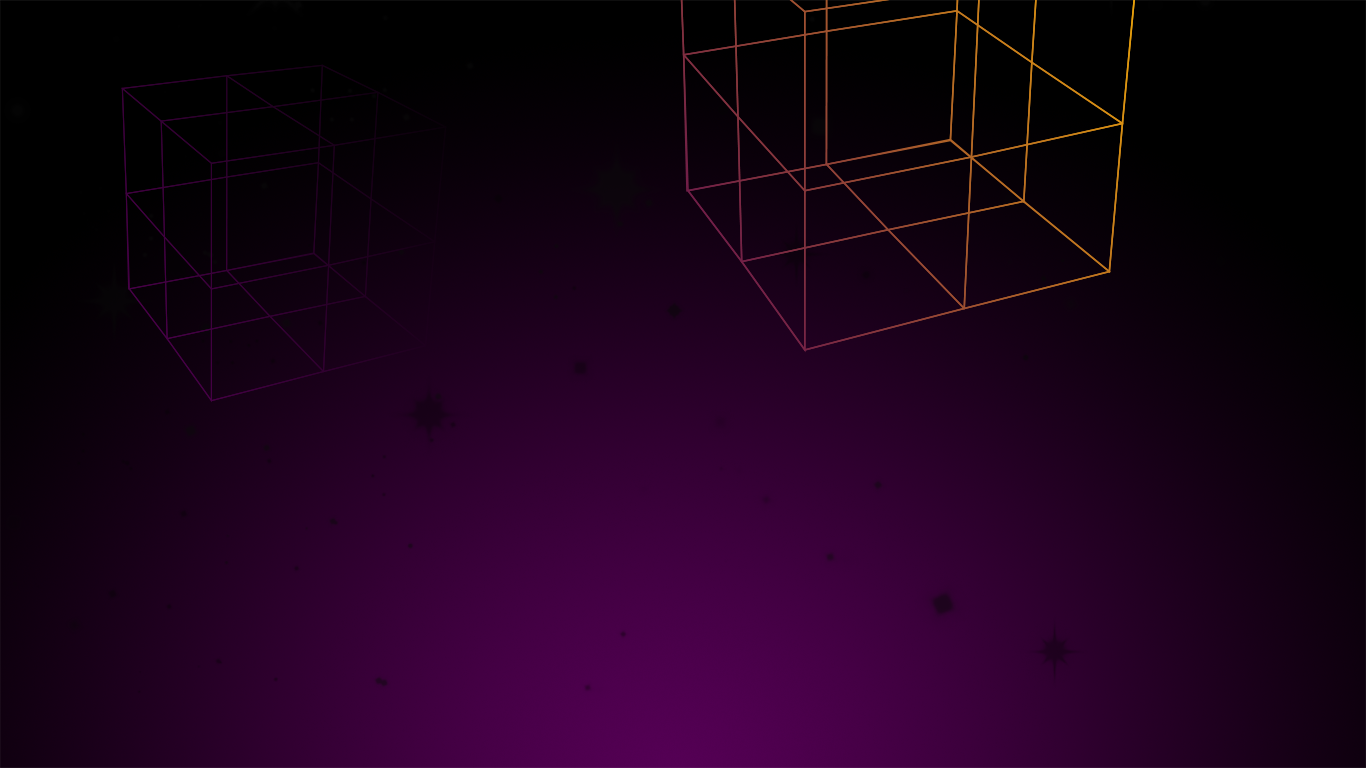
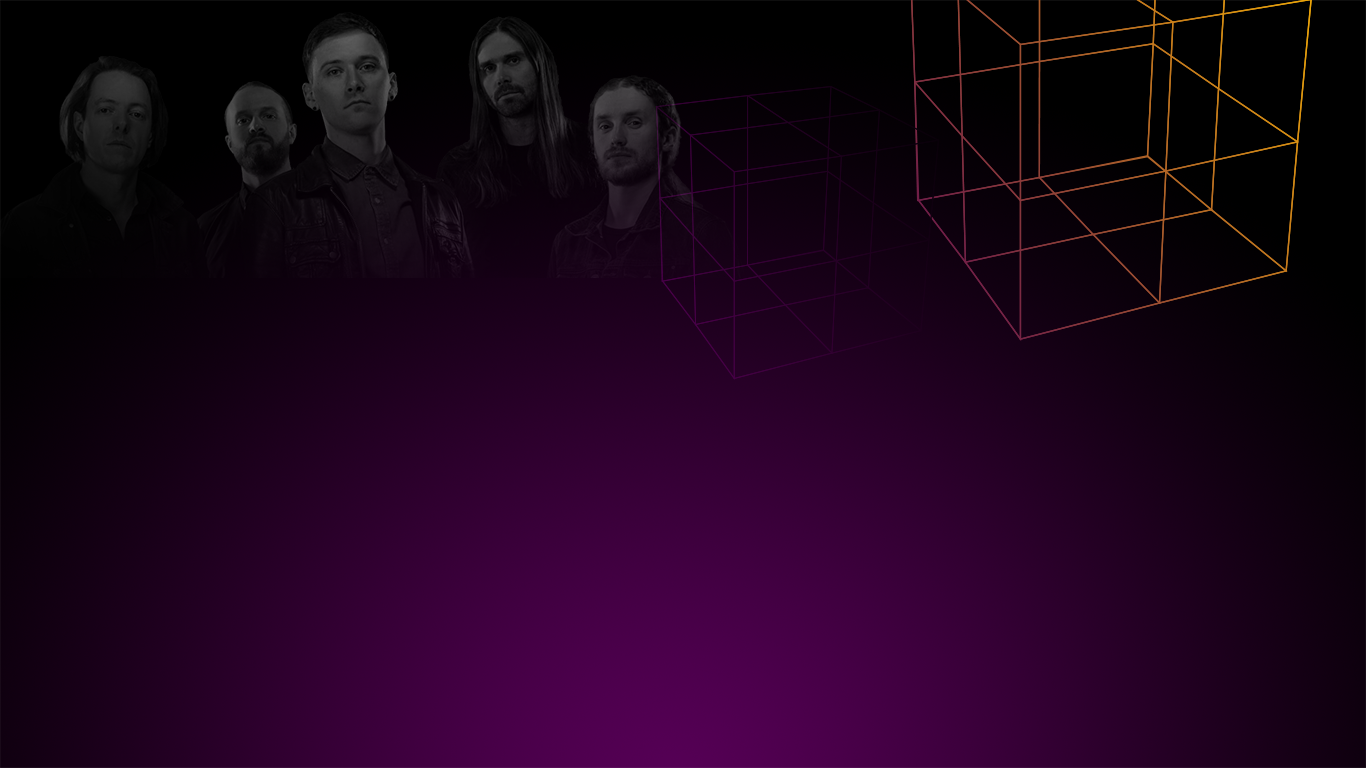
Background, colors, menu position

diff --git a/main.css b/main.css
@@ -68,9 +68,6 @@ body {
   background-image: url(./res/images/background-640.png);
 }
 
-div {
-  /* border: 1px solid #fff; */
-}
 
 h1, h2, h3, h4 {
   font-weight: normal;
@@ -91,7 +88,16 @@ ul {
 
 a {
   text-decoration: none;
-  color: #fff;
+  font-weight: bolder;
+  color: #FFFADE;
+}
+
+a:hover {  
+  background: 
+  linear-gradient(45deg, rgba(85,0,85,1) 0%, rgba(255,186,0,1) 90%);
+  -webkit-background-clip: text;
+  -webkit-text-fill-color: transparent;
+  background-color: #ffba00;
 }
 
 p {
@@ -109,42 +115,49 @@ h2 {
 
 header h1 {
   font-family: 'Monsieur La Doulaise', 'Arial', 'Sans Serif';
-  font-size: 5em;
+  font-size: 6em;
   text-align: right; 
-  padding: 0 1em;
+  padding-right: 1.1em;
+  padding-bottom: -1em;
+  margin-top: 1.3em;
 }
-
 nav {
-    background-color: #ffba00;
-    text-align: right;
-    padding: 1em 2em;
-    
+    /* Hamburgermeny */
+    /* display: inline-block; */
+    display: none;
+    background-color: rgba( 255, 186, 0, .8);    
+    padding: 1em;
+    width: 10em;    
+    text-align: left;
 }
-
+nav .burger-menu {
+  color: #550055;
+  font-style: normal;
+  font-weight: bolder; 
+}
 nav li {
-    display: inline;
-    padding: 0 1em;    
+    display: block;
+    padding: 0 1em;
+    text-align: right;
     
 }
 nav a {
   text-decoration: none;
-  color: #000;
+  color: #550055;
   font-family: 'Montserrat Alternates', Arial, sans-serif;
-  font-size: .8em;
+  font-size: 1em;
 }
 
-nav a:hover {
-
-  background: 
-  -webkit-gradient(linear, left top, left bottom, from(#d18817), to(#7e2d40));
-  -webkit-background-clip: text;
-  -webkit-text-fill-color: transparent;
-  color: #ffba00;
+nav a:hover {  
+  color: #550055;
+  border-bottom: 3px solid #550055;
 } 
 .box {
-  background: #550055;
-  border-bottom-left-radius: .3em;
+  
+  border-radius: .3em;
   border-bottom-right-radius: .3em;
+  font-size: 1.3rem;  
+  background: #550055;
 }
 
 .box h2 {
@@ -152,13 +165,12 @@ nav a:hover {
   border-top-right-radius: .3em;
   background: #ffba00;
   color: #550055;
-  padding: .3em .6em;
-  font-size: .8em;
+  padding: .3em 1.1em;
   
 }
 
 .box-menu {
-  padding: .8em;  
+  padding: .7em 1.1em;  
 }
 
 .box-menu a {
@@ -179,10 +191,10 @@ nav a:hover {
  .content {
     display: grid; /* 1 */
     grid-gap: 2em; /* 2 */
-    margin: 1.5em auto; /* 2, 3 */
-    max-width: 64em; /* 4 */
+    margin: 0 auto; /* 2, 3 */
+    max-width: 50em; /* 4 */
     padding: 0 2em; /* 2 */
-    color: white; 
+    color: #FFFADE;
   }
   
   /**
@@ -198,80 +210,109 @@ nav a:hover {
    * At slightly wider sizes, show sidebar elements side by side (each taking up half the space, minus gutter gap and stuff).
    */
   
-  @media (min-width: 720px) and (max-width: 1279px) {
+  @media (min-width: 900px) and (max-width: 1366px) {
     body {
-      background-image: url(./res/images/background-1366.png);                
+      background-image: url(./res/images/background-1366.png);           
+      font-size: 17pt;     
     }
 
     header h1 {
       font-family: 'Monsieur La Doulaise', 'Arial', 'Sans Serif';
-      font-size: 6em;
-      padding: 0 1.5em ;
+      font-size: 5em;
+      margin-top: 2em;
     }
 
+    nav {
+      display: block;
+      width: 100%;
+      text-align: right;
+      font-size: .8em;
+      background-color: rgba( 255, 186, 0, .7);    
+    }
+
+    nav .burger-menu {
+      display: none;
+    }
+
+    nav ul {
+      margin-right: 1em;
+    }
+    nav li {
+      display: inline;
+      padding: 1em;   
+    }
+  
     h2 {
       font-size: 1.1em;
     }
 
-    nav a {
+
+    .box h2 {
+      padding: .4em 1em;   
       font-size: 1em;
     }
 
-    .box h2{
-      padding: .3em .6em;
-      font-size: .8em;
-    
-  }
-  
-  .box-menu {
-    padding: .8em;
-    font-size: .5em;
-  }
-
+    .box-menu {
+      padding: 1em;
+    }
     .sidebar {
       grid-template-columns: 1fr 1fr;
     }
+
+    
   }
   
   /**
    * At even wider sizes…
    */
   
-  @media (min-width: 1280px) {
+  @media (min-width: 1366px) {
     
     body {
         background-image: url(./res/images/background-1920.png);     
-        font-size: 14pt;           
+        font-size: 18pt;           
     }
-
+    
     header h1 {
       font-family: 'Monsieur La Doulaise', 'Arial', 'Sans Serif';
-      font-size: 7em;
-      padding: .4em 1.5em 0 1.4em ;
+      font-size: 6em;
+      margin-top: 1.7em;
+    }
+    
+    nav {
+      display: block;
+      width: 100%;
+      text-align: right;
+      font-size: .8em;
+      background-color: rgba( 255, 186, 0, .7);     
     }
 
+    nav .burger-menu {
+      display: none;
+    }
+
+    nav ul {
+      margin-right: 1em;
+    }
+    nav li {
+      display: inline;
+      padding: 1em;   
+    }
+  
     h2 {
       font-size: 1.1em;
     }
     
-    nav {
-      margin-bottom: 3em;
-
-    }
     
-    nav a {
-      font-size: 1.1em;
+    .box-menu {
+      font-size: 1.1rem;
     }
 
     .box h2 {
       padding: .4em 1em;
-      font-size: 1em;
+      font-size: 1.2rem;
     }
 
-    .box-menu {
-      padding: 1em;
-      font-size: 1em;
-    }
     /**
      * Establish one primary (⅔) column and one secondary (⅓) column.
      */

diff --git a/index.html b/index.html
@@ -12,20 +12,24 @@
 </head>
 
 <body>
-    <header><h1>TesseracT</h1></header>
-    <nav class="main-menu">
-        <ul>
-            <li>
-                <a href="#about">About</a>
-            </li>
-            <li><a href="#discography">Discography</a></li>
-            <li><a href="#members">Members</a></li>
-        </ul>
-    </nav>
+    
+    <header>
+        <nav class="main-menu">
+            <i class="burger-menu">Open/Close</i>
+            <ul>
+                <li><a href="#about">About</a></li>
+                <li><a href="#discography">Discography</a></li>
+                <li><a href="#members">Members</a></li>
+            </ul>
+        </nav>
+        <h1>TesseracT</h1>
+        
+    </header>
+    
     <div class="content">
         <div class="section about">
             <h2>About</h2>
-            <p>Tesseract (often stylized as TesseracT) are an English progressive metal band from Milton Keynes, England. The band, formed in 2003, consists of Daniel Tompkins (lead vocals), Alec "Acle" Kahney (lead guitar and producer), James Monteith (rhythm guitar), Amos Williams (bass, backing vocals), and Jay Postones (drums, percussion). The band is currently signed to Kscope. They are credited as one of the bands to pioneer the djent movement in progressive metal. As of 2018, Tesseract have released four studio albums: One, Altered State, Polaris, and Sonder, as well as a live album, Odyssey/Scala, and the extended plays Concealing Fate, Perspective and Errai.</p>
+            <p>Tesseract (often stylized as TesseracT) are an English <a href="https://en.wikipedia.org/wiki/Progressive_metal">progressive metal</a> band from Milton Keynes, England. The band, formed in 2003, consists of Daniel Tompkins (lead vocals), Alec "Acle" Kahney (lead guitar and producer), James Monteith (rhythm guitar), Amos Williams (bass, backing vocals), and Jay Postones (drums, percussion). The band is currently signed to Kscope. They are credited as one of the bands to pioneer the djent movement in progressive metal. As of 2018, Tesseract have released four studio albums: One, Altered State, Polaris, and Sonder, as well as a live album, Odyssey/Scala, and the extended plays Concealing Fate, Perspective and Errai.</p>
             <p>Tesseract started out in 2003 while founding member Acle Kahney was recording and writing with his band Mikaw Barish. French vocalist Julien Perier supplied vocals during Tesseract's early stages, but the logistical difficulties of distance meant that he could not join the band permanently. After their first full lineup was realized, Tesseract began playing live shows and compiling material for their debut album; they released a three-song demo in 2007 containing parts of what would eventually become their debut album, One.</p>
         </div>
         <div class="sidebar">
